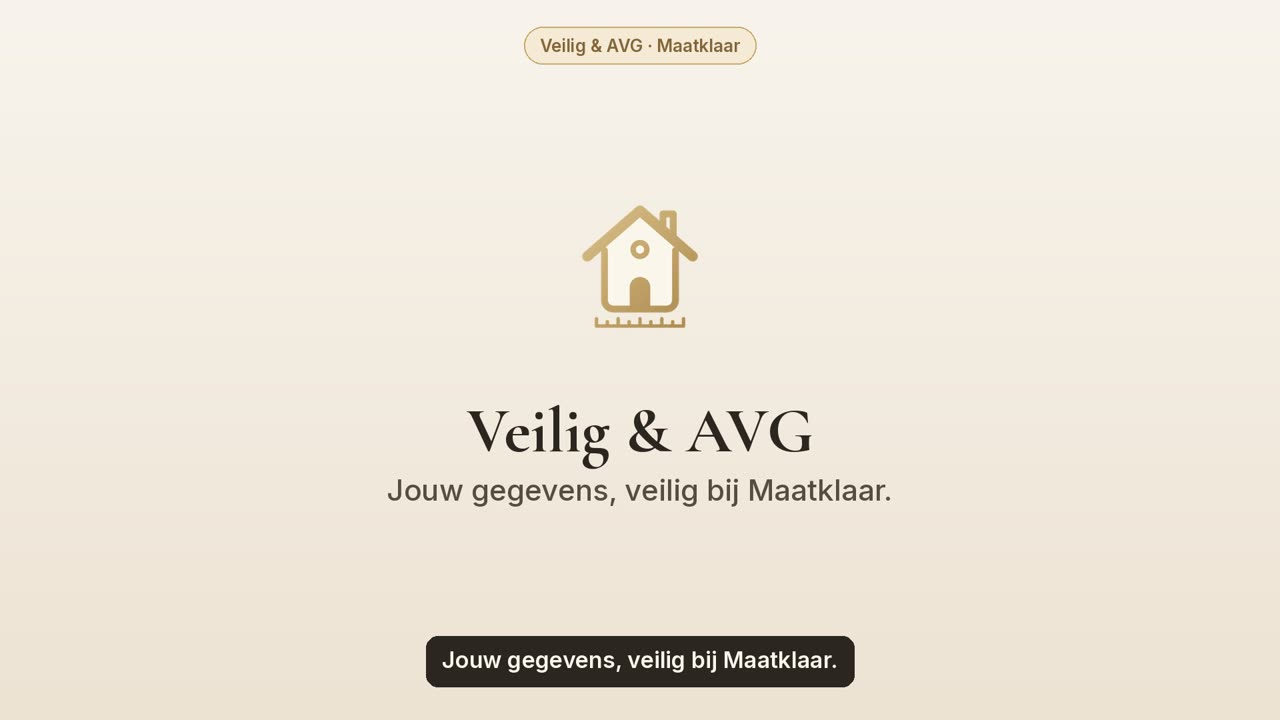
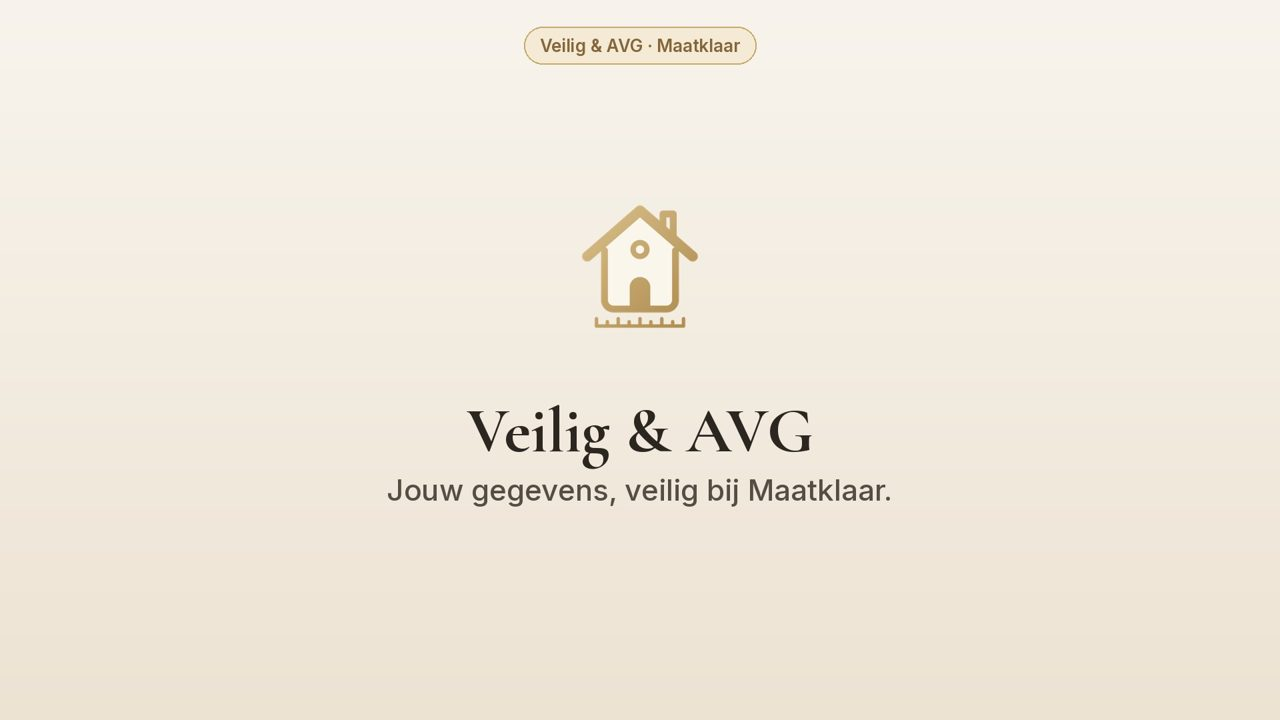
Veilig & AVG: nette poster met afspeelknop, maatklaar.nl in eindscène, strakkere opmaak

Changed region(s): [[0.3125, 0.8861, 0.6875, 0.9778]]

diff --git a/src/screens/Home.tsx b/src/screens/Home.tsx
@@ -1,3 +1,4 @@
+import { VeiligVideo } from '../components/VeiligVideo'
 import { VEILIG_PUNTEN } from '../lib/veiligheid'
 import { Welkom } from '../components/Welkom'
 import { HuisIllustratie } from '../components/HuisIllustratie'
@@ -145,34 +146,25 @@ export function Home() {
         {/* Privacybelofte */}
         <section className="mt-8" aria-labelledby="veilig-titel" data-vertrouwen>
           <div className="card overflow-hidden">
-            <div className="grid gap-5 p-5 sm:p-7 lg:grid-cols-[1fr_1.1fr] lg:items-center">
+            <div className="grid gap-6 p-5 sm:p-8 lg:grid-cols-[1fr_1.15fr] lg:items-center lg:gap-10">
               <div>
                 <p className="text-[0.75rem] font-semibold uppercase tracking-[0.16em] text-gold-700">Veilig &amp; AVG</p>
                 <h2 id="veilig-titel" className="mt-1 text-xl font-semibold text-ink">Jouw gegevens, goed beschermd</h2>
-                <ul className="mt-3 space-y-2 text-sm leading-relaxed text-ink-soft">
+                <ul className="mt-4 space-y-3 text-[0.92rem] leading-snug text-ink-soft">
                   {VEILIG_PUNTEN.map((p) => (
-                    <li key={p} className="flex gap-2">
-                      <ShieldCheck aria-hidden="true" className="mt-0.5 h-4 w-4 shrink-0 text-gold-600" />
-                      <span>{p}</span>
+                    <li key={p} className="flex items-start gap-3">
+                      <span aria-hidden="true" className="grid h-7 w-7 shrink-0 place-items-center rounded-full bg-gold-100 ring-1 ring-gold-300">
+                        <ShieldCheck className="h-4 w-4 text-gold-700" />
+                      </span>
+                      <span className="pt-1">{p}</span>
                     </li>
                   ))}
                 </ul>
-                <a href="#/privacy" className="mt-3 inline-block text-sm font-medium text-gold-700 underline underline-offset-2 hover:text-ink">
+                <a href="#/privacy" className="mt-5 inline-block text-sm font-medium text-gold-700 underline underline-offset-2 hover:text-ink">
                   Lees de privacyverklaring
                 </a>
               </div>
-              <video
-                className="aspect-video w-full rounded-xl bg-sand-100 ring-1 ring-sand-200"
-                controls
-                playsInline
-                preload="none"
-                aria-label="Video: Veilig en AVG bij Maatklaar (23 seconden, met ondertiteling)"
-                poster={`${import.meta.env.BASE_URL}veiligheid-poster.jpg`}
-              >
-                <source src={`${import.meta.env.BASE_URL}veiligheid.mp4`} type="video/mp4" />
-                <track kind="captions" srcLang="nl" label="Nederlands" src={`${import.meta.env.BASE_URL}veiligheid.nl.vtt`} />
-                Je browser kan deze video niet afspelen.
-              </video>
+              <VeiligVideo />
             </div>
           </div>
         </section>

diff --git a/src/components/VeiligVideo.tsx b/src/components/VeiligVideo.tsx
@@ -1,0 +1,30 @@
+import { useState } from 'react'
+import { Play } from 'lucide-react'
+
+/** Video met nette poster en duidelijke afspeelknop; de video laadt pas na een tik (geen spinner, geen sprong in de opmaak). */
+export function VeiligVideo() {
+  const [speel, setSpeel] = useState(false)
+  const base = import.meta.env.BASE_URL
+  return (
+    <div className="relative aspect-video w-full overflow-hidden rounded-2xl bg-sand-100 shadow-card ring-1 ring-sand-200">
+      {speel ? (
+        <video className="absolute inset-0 h-full w-full" controls autoPlay playsInline preload="auto" poster={`${base}veiligheid-poster.jpg`} aria-label="Video: Veilig en AVG bij Maatklaar">
+          <source src={`${base}veiligheid.mp4`} type="video/mp4" />
+          <track kind="captions" srcLang="nl" label="Nederlands" src={`${base}veiligheid.nl.vtt`} />
+          Je browser kan deze video niet afspelen.
+        </video>
+      ) : (
+        <button type="button" onClick={() => setSpeel(true)} aria-label="Speel de video Veilig en AVG af (23 seconden)" className="group absolute inset-0 h-full w-full">
+          <img src={`${base}veiligheid-poster.jpg`} alt="" width={1280} height={720} loading="lazy" decoding="async" className="absolute inset-0 h-full w-full object-cover" />
+          <span className="absolute inset-0 bg-ink/0 transition group-hover:bg-ink/5" />
+          <span className="absolute bottom-2.5 left-2.5 inline-flex items-center gap-2 rounded-full bg-ink/90 py-1.5 pr-3.5 pl-1.5 text-[0.78rem] sm:py-2 sm:pr-4 sm:pl-2 sm:text-[0.85rem] font-semibold text-paper shadow-lift ring-2 ring-paper/70 transition group-hover:scale-[1.03] sm:bottom-4 sm:left-4">
+            <span className="grid h-7 w-7 place-items-center rounded-full bg-gold-500 sm:h-8 sm:w-8 text-ink">
+              <Play className="ml-0.5 h-4 w-4 fill-current" />
+            </span>
+            Bekijk de video · 0:23
+          </span>
+        </button>
+      )}
+    </div>
+  )
+}
